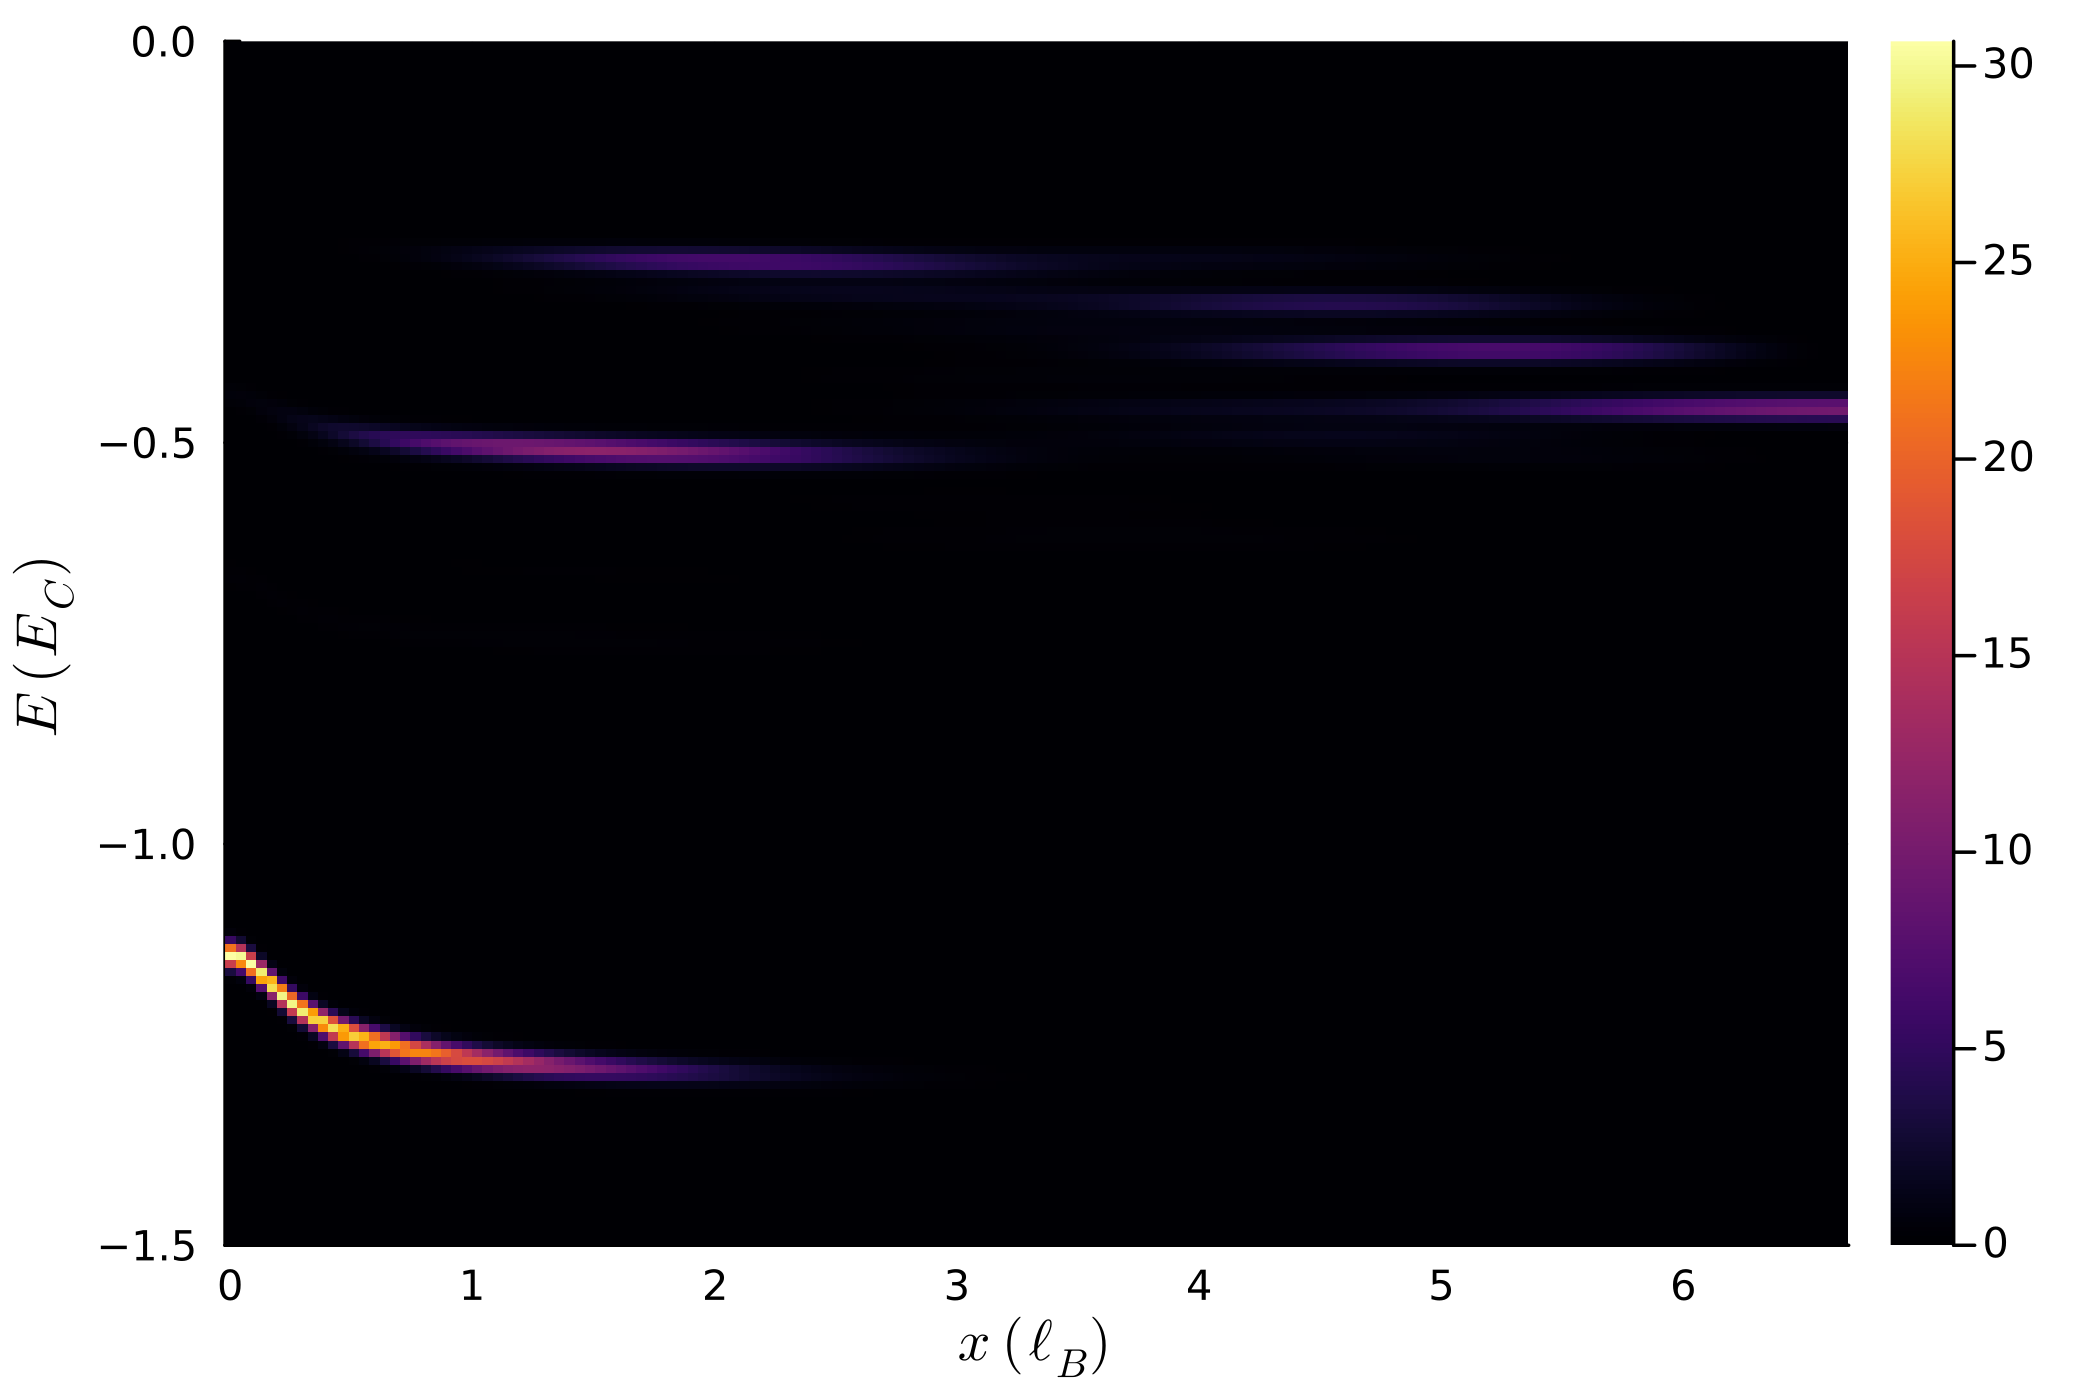
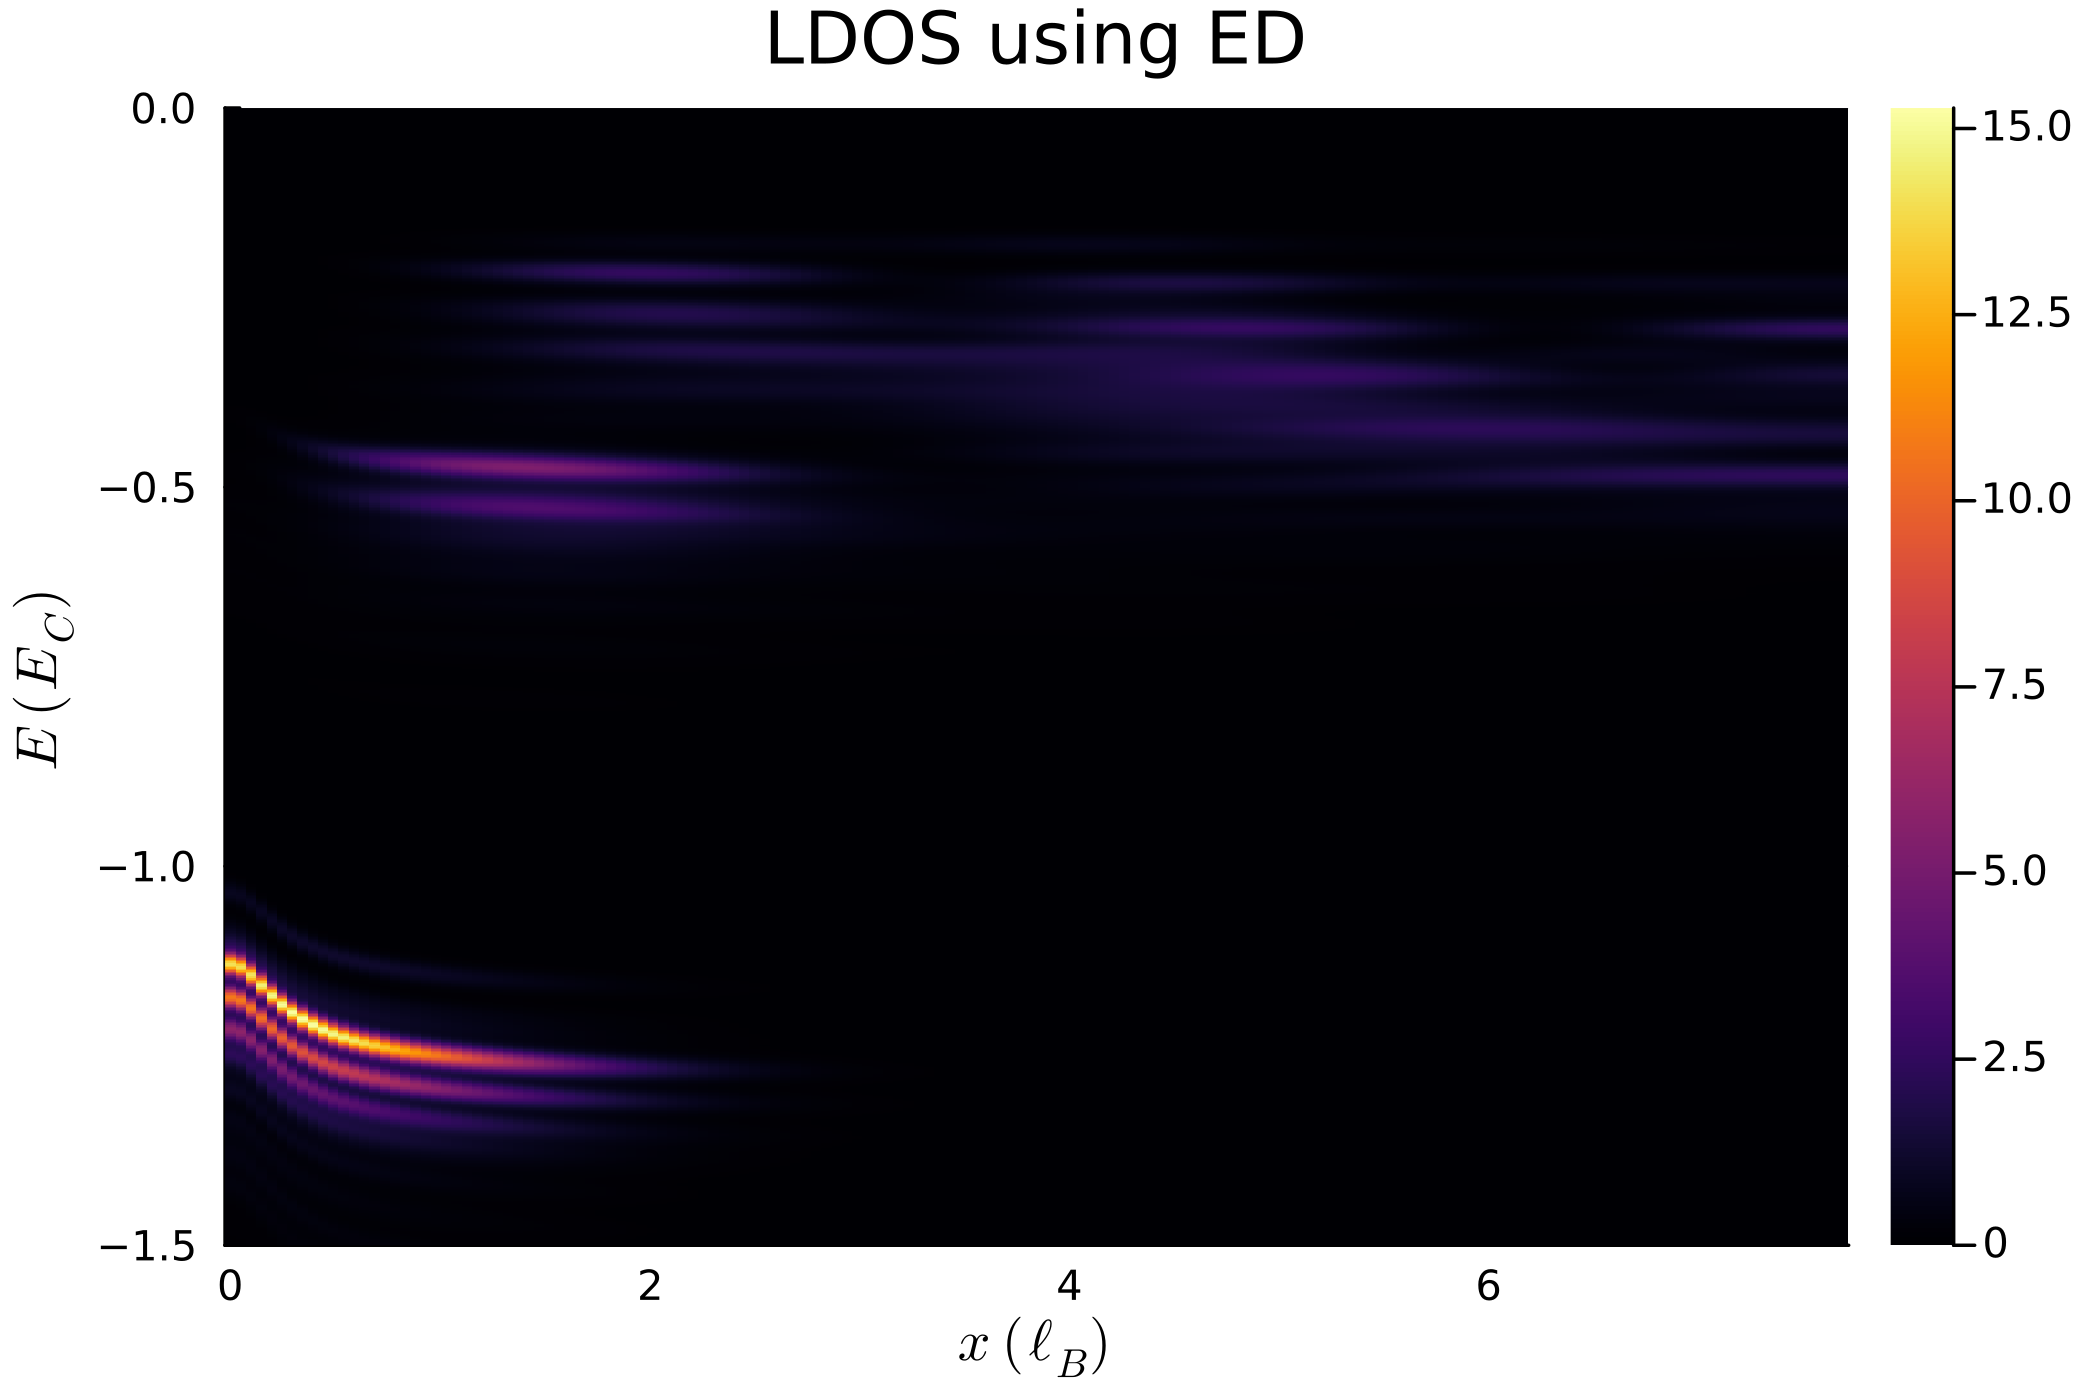
partial refactor in KPM and added it to README

diff --git a/README.md b/README.md
@@ -44,7 +44,7 @@ rpa = true
 field = 0.
 
 width = 0.01
-enrg_res = 0.01
+enrg_res = 0.002
 phi = pi/2
 thetas = 0:0.02:pi
 ```
@@ -65,7 +65,24 @@ enrg_range, dist_range, ldos = ldos_anisotropic(
     width=width, enrg_res=enrg_res)
 
 
-p = heatmap(dist_range, enrg_range, ldos, 
+p = heatmap(dist_range, enrg_range, ldos, title="LDOS using ED",
             yguide=L"E\,\,(E_C)", xguide=L"x\,\,(\ell_B)", ylims=(-1.5, 0.))
 ```
-![asda](misc/ldos_quick_start.png)
+<img src="misc/ldos_quick_start.png"
+     width="500">
+
+If one wants to trade resolution over speed, then the LDOS can be also computed using the kernel polynomial method instead of full exact diagonalization.
+```julia
+enrg_range, dist_range, ldos = ldos_anisotropic_kpm(
+    ne, nm, bias, thetas, phi,
+    interaction_pspot, impurity_pot; tip_pot = tip_pot, field=field,
+    nbr_qp=nbr_qp, charge_qp=charge_qp,
+    width=width, enrg_res=enrg_res,
+    num_moments=2048)
+
+
+p = heatmap(dist_range, enrg_range, ldos, title="LDOS using KPM",
+            yguide=L"E\,\,(E_C)", xguide=L"x\,\,(\ell_B)", ylims=(-1.5, 0.))
+```
+<img src="misc/ldos_kpm_quick_start.png"
+     width="500">